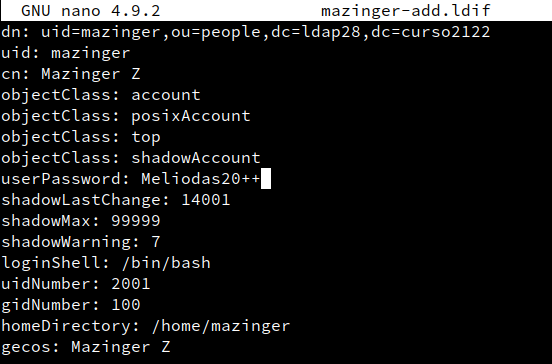
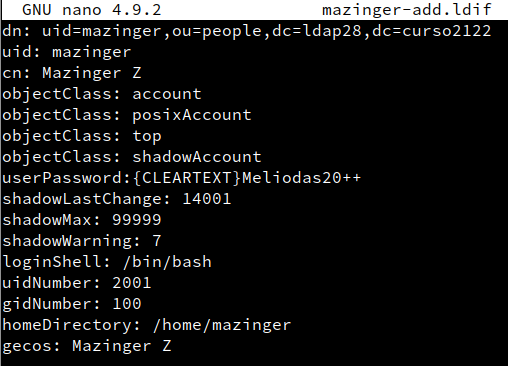
Entrega informe

Changed region(s): [[0.0, 0.0, 1.0, 0.9973]]

diff --git a/ut4/a1/README.md b/ut4/a1/README.md
@@ -1,0 +1,146 @@
+# Servidor LDAP.
+
+## Prerequisitos.
+
+### FQDN (Fully Qualified Domain Name).
+
+Debemos de configurar el hostname de la máquina para que su FQDN sea **server28g.curso2122**.
+
+Para ello debemos de ir a ``Yast → Ajustes de Red → Descripcion general → Conexion existente → Nombre del host`` y cambiamos el valor por defecto (localhost) por el valor que queremos (server28g.curso2122).
+
+Comprobamos que los cambios se ha realizado correctamente comprobamos los siguientes elementos:
+* Fichero /etc/hosts
+
+![](./img/001.png)
+
+* Fichero /etc/hostname
+
+![](./img/002.png)
+
+* Comando hostname -a/-d/-f
+
+![](./img/003.png)
+
+## Instalación del Servidor LDAP.
+
+### Instalación del paquete.
+
+Para configurar el servidor LDAP debemos de instalar el paquete **389-ds**.
+
+![](./img/004.png)
+
+Comprobamos su version.
+
+![](./img/005.png)
+
+### Configuración de la instancia.
+
+Ahora creamos un archivo /root/instance.inf que servirá como fichero de configuración del servidor LDAP.
+
+![](./img/006.png)
+
+Ahora validamos el fichero como archivo de configuración del servidor LDAP.
+
+![](./img/007.png)
+
+Vemos que el servicio se encuentra activo.
+
+![](./img/008.png)
+
+Ahora creamos un fichero /root/.dsrc de que administrará los permisos para acceder a la base de datos como administrador. El contenido es el siguiente
+
+![](./img/009.png)
+
+### Comprobar el servicio.
+
+Comprobamos el estado del servicio.
+
+![](./img/010.png)
+
+### Comprobar acceso al contenido de LDAP.
+
+Desde la máquina real comprobamos el acceso al servidor LDAP ejecutando la herramienta nmap y filtrando los puertos que nos interesan.
+
+![](./img/011.png)
+
+Como no podemos acceder significa que el cortafuegos de la máquina servidor no permite el acceso a los puertos.  
+
+![](./img/012.png)
+
+Volvemos a comprobar el acceso y vemos que nos permite ver los puertos ahora, sin embargo no funciona con el hostname, por lo que usamos la ip.
+
+![](./img/013.png)
+
+Ahora vemos el contenido de nuestra base de datos LDAP.
+
+![](./img/014.png)
+
+Ahora vemos el contenido de la base de datos LDAP como usuario administrador.
+
+![](./img/015.png)
+
+
+## Añadir usuarios LDAP por comandos.
+
+### Buscar Unidades Organizativas.
+
+Comprobamos que las unidades organizativas people y groups existen.
+
+![](./img/017.png)
+
+### Agregar usuarios.
+
+Empezamos creando un fichero de configuración del usuario para luego validarlo.
+
+![](./img/018.png)
+
+Ahora ejecutamos el comando **ldapadd -x -W -D "cn=Directory Manager" -f mazinger-add.ldif** para validar el usuario.
+
+![](./img/019.png)
+
+### Comprobar nuevo usuario.
+
+Comprobamos la existencia del usuario que acabamos de crear.
+
+![](./img/021.png)
+![](./img/022.png)
+
+## Contraseñas encriptadas.
+
+### Herramienta slappasswd.
+
+Debemos de instalar el paquete **openldap2** para cambiar las contraseñas.
+
+![](./img/023.png)
+
+Ahora podemos generar contraseñas cifradas con diferentes formatos, aquí un ejemplo de como generar una contraseña encriptada.
+
+![](./img/024.png)
+
+### Agregar más usuarios con claves encriptadas.
+
+Ahora vamos a crear 3 ficheros para 3 usuarios nuevos:
+* **zoro**
+
+![](./img/025.png)
+
+* **sanji**
+
+![](./img/026.png)
+
+* **chopper**
+
+![](./img/027.png)
+
+Ahora validamos estos usuarios.
+
+![](./img/028.png)
+### Comprobar los usuarios creados.
+
+Ahora comprobamos que los usuarios existen.
+
+![](./img/029.png)
+
+Ahora comprobamos que los usuarios son accesibles desde una máquina cliente.
+
+![](./img/030.png)
